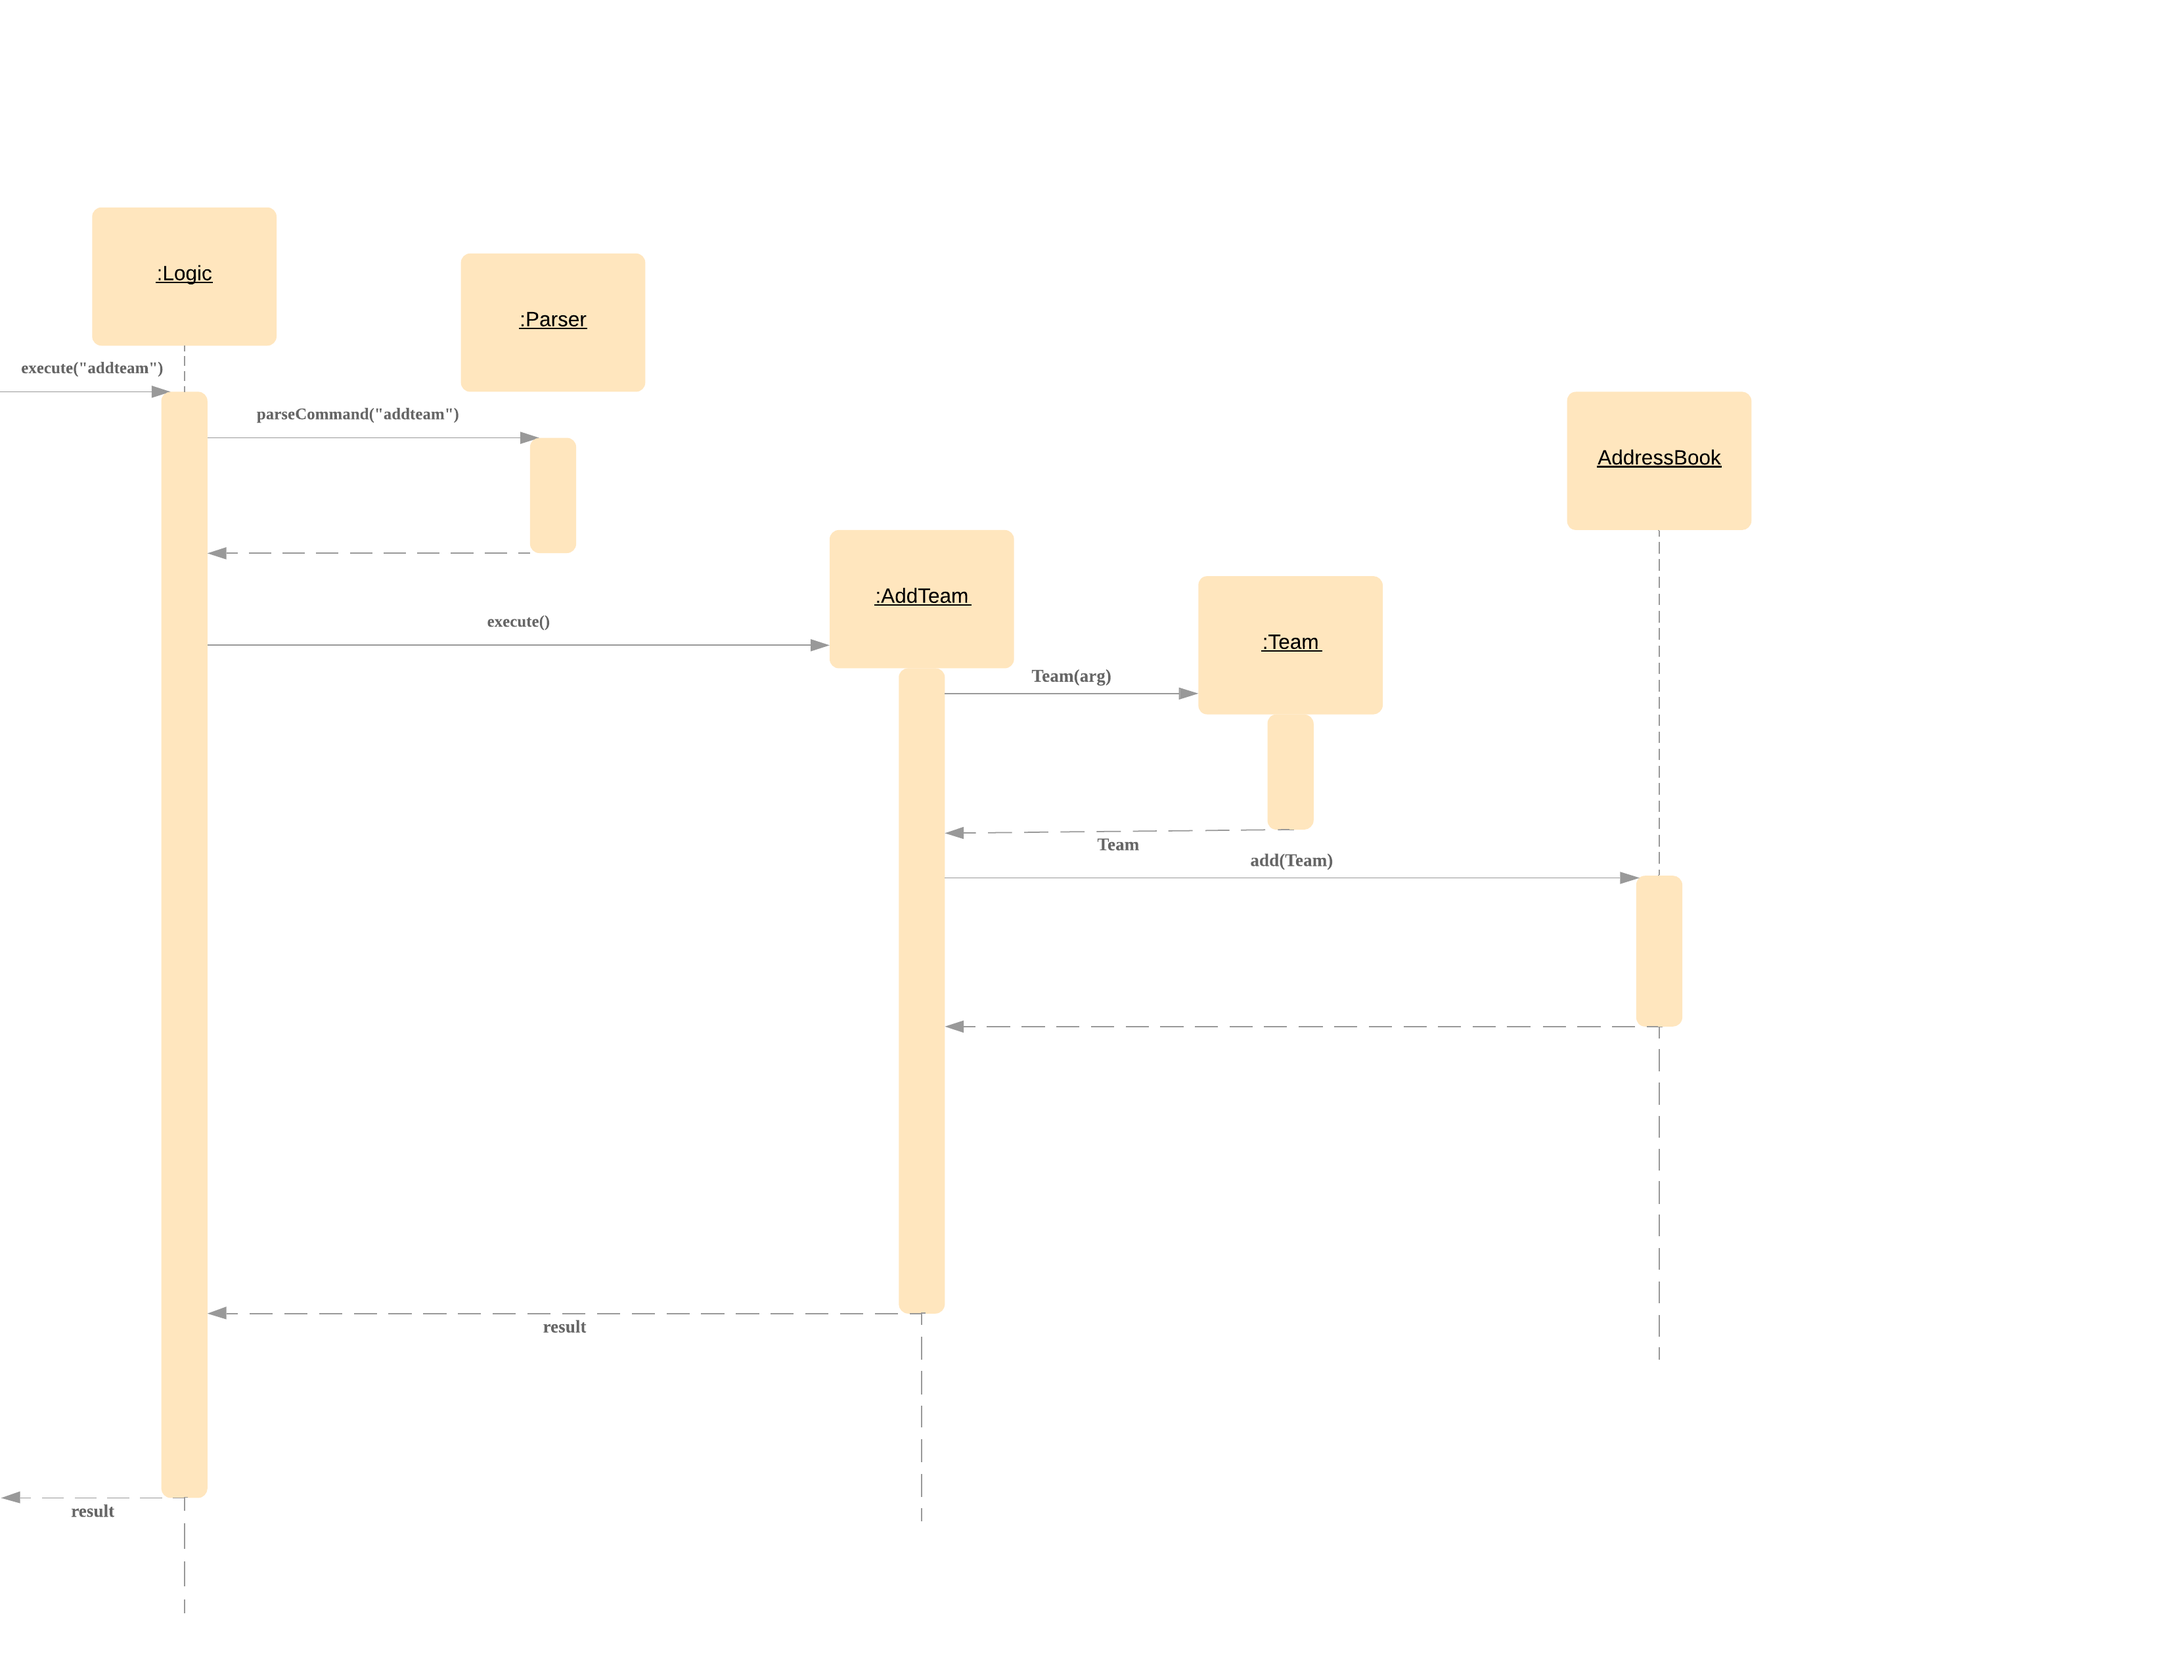
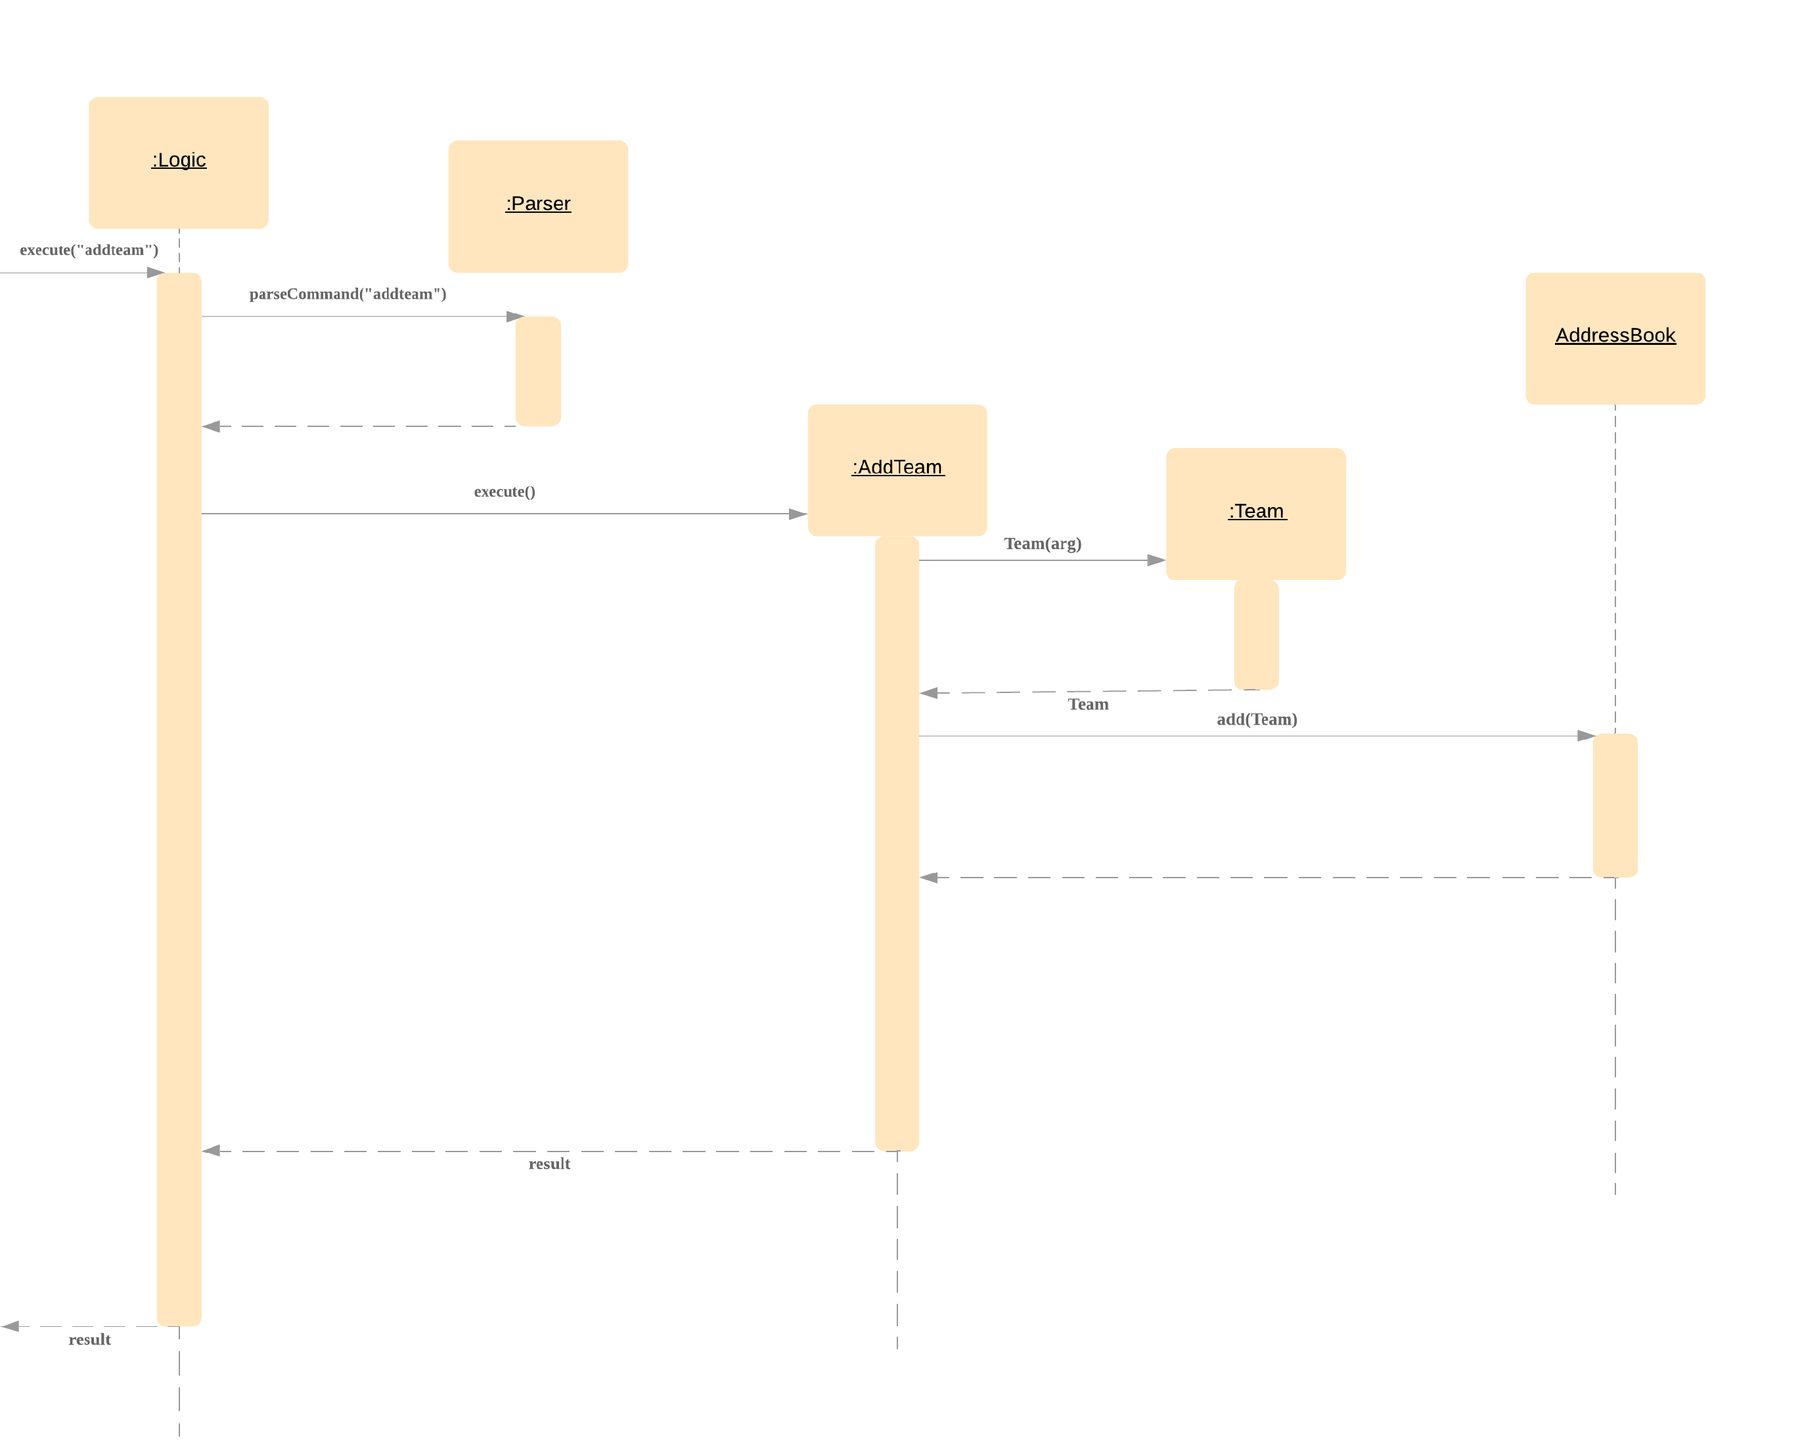
Rebuild pages at 12578832161af7fe473d1d524f49850f4af24b7d

diff --git a/DeveloperGuide.html b/DeveloperGuide.html
@@ -66,10 +66,11 @@
 <ul class="sectlevel2">
 <li><a href="#launch-and-shutdown">F.1. Launch and Shutdown</a></li>
 <li><a href="#deleting-a-person">F.2. Deleting a person</a></li>
-<li><a href="#deleting-a-team">F.3. Deleting a team</a></li>
-<li><a href="#editing-a-team">F.4. Editing a team</a></li>
-<li><a href="#viewing-a-finance">F.5. Viewing a Finance</a></li>
-<li><a href="#getting-a-finance-from-the-team-list">F.6. Getting a Finance from the team list</a></li>
+<li><a href="#adding-a-team">F.3. Adding a team</a></li>
+<li><a href="#deleting-a-team">F.4. Deleting a team</a></li>
+<li><a href="#editing-a-team">F.5. Editing a team</a></li>
+<li><a href="#viewing-a-finance">F.6. Viewing a Finance</a></li>
+<li><a href="#getting-a-finance-from-the-team-list">F.7. Getting a Finance from the team list</a></li>
 </ul>
 </li>
 </ul>
@@ -936,7 +937,7 @@ less likely to raise bugs.</p>
 </div>
 <div class="imageblock">
 <div class="content">
-<img src="images/AddTeamSQ.png" alt="AddTeamSQ" width="400">
+<img src="images/AddTeamSQ.png" alt="AddTeamSQ" width="500">
 </div>
 <div class="title">Figure 15. Add Team Sequence Diagram</div>
 </div>
@@ -2228,9 +2229,6 @@ Expected: The most recent window size and location is retained.</p>
 </li>
 </ol>
 </div>
-<div class="paragraph">
-<p><em>{ more test cases &#8230;&#8203; }</em></p>
-</div>
 </div>
 <div class="sect2">
 <h3 id="deleting-a-person"><a class="link" href="#deleting-a-person">F.2. Deleting a person</a></h3>
@@ -2260,20 +2258,43 @@ Expected: Similar to previous.</p>
 </li>
 </ol>
 </div>
-<div class="paragraph">
-<p><em>{ more test cases &#8230;&#8203; }</em></p>
-</div>
 </div>
 <div class="sect2">
-<h3 id="deleting-a-team"><a class="link" href="#deleting-a-team">F.3. Deleting a team</a></h3>
+<h3 id="adding-a-team"><a class="link" href="#adding-a-team">F.3. Adding a team</a></h3>
 <div class="olist arabic">
 <ol class="arabic">
 <li>
-<p>Deleting a person while all persons are listed</p>
+<p>Adding a team to the League Tracker</p>
 <div class="olist loweralpha">
 <ol class="loweralpha" type="a">
 <li>
-<p>Prerequisites: List all persons using the <code>listteam</code> command. Multiple persons in the list.</p>
+<p>Test case: <code>addteam aa c/cc s/90</code><br>
+Expected: First team is added to the list. Details of the added team shown in the status message. Timestamp in the status bar is updated.</p>
+</li>
+<li>
+<p>Test case: <code>addteam ;/'; c/sad s0</code><br>
+Expected: No team is added. Error details shown in the status message. Status bar remains the same.</p>
+</li>
+<li>
+<p>Other incorrect addteam commands to try: <code>addteam</code>, <code>addteam x c/asd s/90</code> (x is non-alphanumerical)<br>
+Expected: Similar to previous.</p>
+</li>
+</ol>
+</div>
+</li>
+</ol>
+</div>
+</div>
+<div class="sect2">
+<h3 id="deleting-a-team"><a class="link" href="#deleting-a-team">F.4. Deleting a team</a></h3>
+<div class="olist arabic">
+<ol class="arabic">
+<li>
+<p>Deleting a team while all teams are listed</p>
+<div class="olist loweralpha">
+<ol class="loweralpha" type="a">
+<li>
+<p>Prerequisites: List all teams using the <code>listteam</code> command. Multiple teams in the list.</p>
 </li>
 <li>
 <p>Test case: <code>deleteteam 1</code><br>
@@ -2294,26 +2315,26 @@ Expected: Similar to previous.</p>
 </div>
 </div>
 <div class="sect2">
-<h3 id="editing-a-team"><a class="link" href="#editing-a-team">F.4. Editing a team</a></h3>
+<h3 id="editing-a-team"><a class="link" href="#editing-a-team">F.5. Editing a team</a></h3>
 <div class="olist arabic">
 <ol class="arabic">
 <li>
-<p>Editing a team while all persons are listed</p>
+<p>Editing a team while all teams are listed</p>
 <div class="olist loweralpha">
 <ol class="loweralpha" type="a">
 <li>
-<p>Prerequisites: List all persons using the <code>list</code> command. Multiple persons in the list.</p>
+<p>Prerequisites: List all teams using the <code>listteam</code> command. Multiple teams in the list.</p>
 </li>
 <li>
 <p>Test case: <code>editteam 1 n/aa</code><br>
 Expected: First team is edited to having <code>aa</code> as team&#8217;s name. Details of the edited contact shown in the status message. Timestamp in the status bar is updated.</p>
 </li>
 <li>
-<p>Test case: <code>delete 0</code><br>
-Expected: No person is deleted. Error details shown in the status message. Status bar remains the same.</p>
+<p>Test case: <code>editteam 0</code><br>
+Expected: No team is edited. Error details shown in the status message. Status bar remains the same.</p>
 </li>
 <li>
-<p>Other incorrect delete commands to try: <code>delete</code>, <code>delete x</code> (where x is larger than the list size) <em>{give more}</em><br>
+<p>Other incorrect editteam commands to try: <code>editteam</code>, <code>editteam x</code> (where x is larger than the list size or invalid), <code>editteam 1 n/aa</code>(aa is the name of existing team)<br>
 Expected: Similar to previous.</p>
 </li>
 </ol>
@@ -2321,12 +2342,9 @@ Expected: Similar to previous.</p>
 </li>
 </ol>
 </div>
-<div class="paragraph">
-<p><em>{ more test cases &#8230;&#8203; }</em></p>
-</div>
 </div>
 <div class="sect2">
-<h3 id="viewing-a-finance"><a class="link" href="#viewing-a-finance">F.5. Viewing a Finance</a></h3>
+<h3 id="viewing-a-finance"><a class="link" href="#viewing-a-finance">F.6. Viewing a Finance</a></h3>
 <div class="olist arabic">
 <ol class="arabic">
 <li>
@@ -2355,12 +2373,9 @@ Expected: Similar to previous.</p>
 </li>
 </ol>
 </div>
-<div class="paragraph">
-<p><em>{ more test cases &#8230;&#8203; }</em></p>
-</div>
 </div>
 <div class="sect2">
-<h3 id="getting-a-finance-from-the-team-list"><a class="link" href="#getting-a-finance-from-the-team-list">F.6. Getting a Finance from the team list</a></h3>
+<h3 id="getting-a-finance-from-the-team-list"><a class="link" href="#getting-a-finance-from-the-team-list">F.7. Getting a Finance from the team list</a></h3>
 <div class="olist arabic">
 <ol class="arabic">
 <li>
@@ -2394,4 +2409,4 @@ Expected: Similar to previous.</p>
 </div>
 </div>
 </div>
-</div></div><div id="footer"><div class="container"><div id="footer-text">Last updated 2019-04-14 13:43:48 UTC</div></div></div></body></html>
+</div></div><div id="footer"><div class="container"><div id="footer-text">Last updated 2019-04-14 14:05:58 UTC</div></div></div></body></html>

diff --git a/team/yingrong1996.html b/team/yingrong1996.html
@@ -507,7 +507,7 @@ the team.
 </div>
 <div class="imageblock">
 <div class="content">
-<img src="../images/AddTeamSQ.png" alt="AddTeamSQ" width="400">
+<img src="../images/AddTeamSQ.png" alt="AddTeamSQ" width="500">
 </div>
 <div class="title">Figure 11. Add Team Sequence Diagram</div>
 </div>
@@ -679,4 +679,4 @@ the team.
 </div>
 </div>
 </div>
-</div></div><div id="footer"><div class="container"><div id="footer-text">Last updated 2019-04-14 13:43:48 UTC</div></div></div></body></html>
+</div></div><div id="footer"><div class="container"><div id="footer-text">Last updated 2019-04-14 14:05:58 UTC</div></div></div></body></html>

diff --git a/ContactUs.html b/ContactUs.html
@@ -9,4 +9,4 @@
 <p><strong>Contributing</strong> : We welcome pull requests. Follow the process described <a href="https://github.com/oss-generic/process">here</a></p>
 </li>
 </ul>
-</div></div><div id="footer"><div class="container"><div id="footer-text">Last updated 2019-04-14 13:43:48 UTC</div></div></div></body></html>
+</div></div><div id="footer"><div class="container"><div id="footer-text">Last updated 2019-04-14 14:05:58 UTC</div></div></div></body></html>

diff --git a/team/huyidi.html b/team/huyidi.html
@@ -352,4 +352,4 @@ They showcase my ability to write technical documentation and the technical dept
 </tbody>
 </table>
 </div>
-</div></div><div id="footer"><div class="container"><div id="footer-text">Last updated 2019-04-14 13:43:48 UTC</div></div></div></body></html>
+</div></div><div id="footer"><div class="container"><div id="footer-text">Last updated 2019-04-14 14:05:58 UTC</div></div></div></body></html>

diff --git a/LearningOutcomes.html b/LearningOutcomes.html
@@ -503,4 +503,4 @@ of storages, but different number of storages (e.g. save to both a text file and
 </div>
 </div>
 </div>
-</div></div><div id="footer"><div class="container"><div id="footer-text">Last updated 2019-04-14 13:43:48 UTC</div></div></div></body></html>
+</div></div><div id="footer"><div class="container"><div id="footer-text">Last updated 2019-04-14 14:05:58 UTC</div></div></div></body></html>

diff --git a/UserGuide.html b/UserGuide.html
@@ -2411,4 +2411,4 @@ Export all Finance records to an Excel file : <code>exportFinance</code></p>
 </div>
 </div>
 </div>
-</div></div><div id="footer"><div class="container"><div id="footer-text">Last updated 2019-04-14 13:43:48 UTC</div></div></div></body></html>
+</div></div><div id="footer"><div class="container"><div id="footer-text">Last updated 2019-04-14 14:05:58 UTC</div></div></div></body></html>

diff --git a/index.html b/index.html
@@ -67,4 +67,4 @@ if you noticed bugs or have suggestions on how to improve.</p>
 </ul>
 </div>
 </div>
-</div></div><div id="footer"><div class="container"><div id="footer-text">Last updated 2019-04-14 13:43:48 UTC</div></div></div></body></html>
+</div></div><div id="footer"><div class="container"><div id="footer-text">Last updated 2019-04-14 14:05:58 UTC</div></div></div></body></html>

diff --git a/AboutUs.html b/AboutUs.html
@@ -77,4 +77,4 @@ Responsibilities: Finance Feature</p>
 <hr>
 </div>
 </div>
-</div></div><div id="footer"><div class="container"><div id="footer-text">Last updated 2019-04-14 13:43:48 UTC</div></div></div></body></html>
+</div></div><div id="footer"><div class="container"><div id="footer-text">Last updated 2019-04-14 14:05:58 UTC</div></div></div></body></html>

diff --git a/team/warheade.html b/team/warheade.html
@@ -511,4 +511,4 @@ the data.</p>
 </div>
 </div>
 </div>
-</div></div><div id="footer"><div class="container"><div id="footer-text">Last updated 2019-04-14 13:43:48 UTC</div></div></div></body></html>
+</div></div><div id="footer"><div class="container"><div id="footer-text">Last updated 2019-04-14 14:05:58 UTC</div></div></div></body></html>
